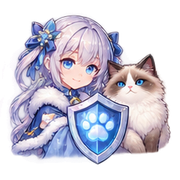
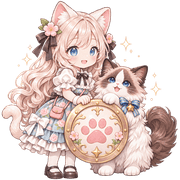
替换卡图：并肩防守 [skip ci]
Claude-Session: https://claude.ai/code/session_015MetZoRWrzVfeXw26cv7iz

diff --git a/src/game.js b/src/game.js
@@ -1,7 +1,7 @@
 // 异世界幸存者 · 卡牌篇 —— 主逻辑（玩法照搬杀戮尖塔第一幕）
-import { MECH, STARTRELIC, RULES, isFury, EVENTS2, ENCOUNTERS2, CARDS, STARTERS, RELICS, POTIONS, STATUS, ENEMIES, ENCOUNTERS, EVENTS } from './data.js?v=live2_11112609';
-import { createAudio } from './audio.js?v=live2_11112609';
-import { t, tr, getLanguage, setLanguage, onLanguageChange, watch, missing } from './i18n.js?v=live2_11112609';
+import { MECH, STARTRELIC, RULES, isFury, EVENTS2, ENCOUNTERS2, CARDS, STARTERS, RELICS, POTIONS, STATUS, ENEMIES, ENCOUNTERS, EVENTS } from './data.js?v=live2_11112610';
+import { createAudio } from './audio.js?v=live2_11112610';
+import { t, tr, getLanguage, setLanguage, onLanguageChange, watch, missing } from './i18n.js?v=live2_11112610';
 
 const $ = s => document.querySelector(s);
 const view = $('#view'), fxl = $('#fx'), stage = $('#stage');

diff --git a/src/data.js b/src/data.js
@@ -1,5 +1,5 @@
-import { tr } from './i18n.js?v=live2_11112609';
-import { NEWCARDS, NEWRELICS, NEWSTATUS, NEWSTARTERS, NEWSTARTRELIC, NEWKEYW, OLDKEYW, MECH, bindCards } from './chars.js?v=live2_11112609';
+import { tr } from './i18n.js?v=live2_11112610';
+import { NEWCARDS, NEWRELICS, NEWSTATUS, NEWSTARTERS, NEWSTARTRELIC, NEWKEYW, OLDKEYW, MECH, bindCards } from './chars.js?v=live2_11112610';
 export { MECH, NEWKEYW, OLDKEYW };
 // 数据：卡牌 / 秘宝 / 敌人 / 遭遇 / 事件
 // 卡牌 play(g,u,t)：g=战斗接口，u=是否升级(0/1)，t=目标敌人

diff --git a/index.html b/index.html
@@ -276,6 +276,6 @@ button{font-family:inherit;cursor:pointer}
 <body>
 <div id="rot"><div class="ph"></div><div>请把手机横过来玩</div><div style="font-size:15px;color:#c8b890">Please rotate your device</div></div>
 <div id="stage"><div id="view"></div><div id="fx"></div></div>
-<script type="module" src="src/game.js?v=live2_11112609"></script>
+<script type="module" src="src/game.js?v=live2_11112610"></script>
 </body>
 </html>

diff --git a/src/i18n.js b/src/i18n.js
@@ -1,6 +1,6 @@
 /* 多语言：中文原文就是 key（数字和「」里的名字会自动变成 {0}{1} 占位符），英文 / 日文词表在 src/lang/ */
-import EN from './lang/en.js?v=live2_11112609';
-import JA from './lang/ja.js?v=live2_11112609';
+import EN from './lang/en.js?v=live2_11112610';
+import JA from './lang/ja.js?v=live2_11112610';
 const DICT = { en: EN, ja: JA };
 const CJK = /[㐀-鿿]/;
 let lang = 'zh';
